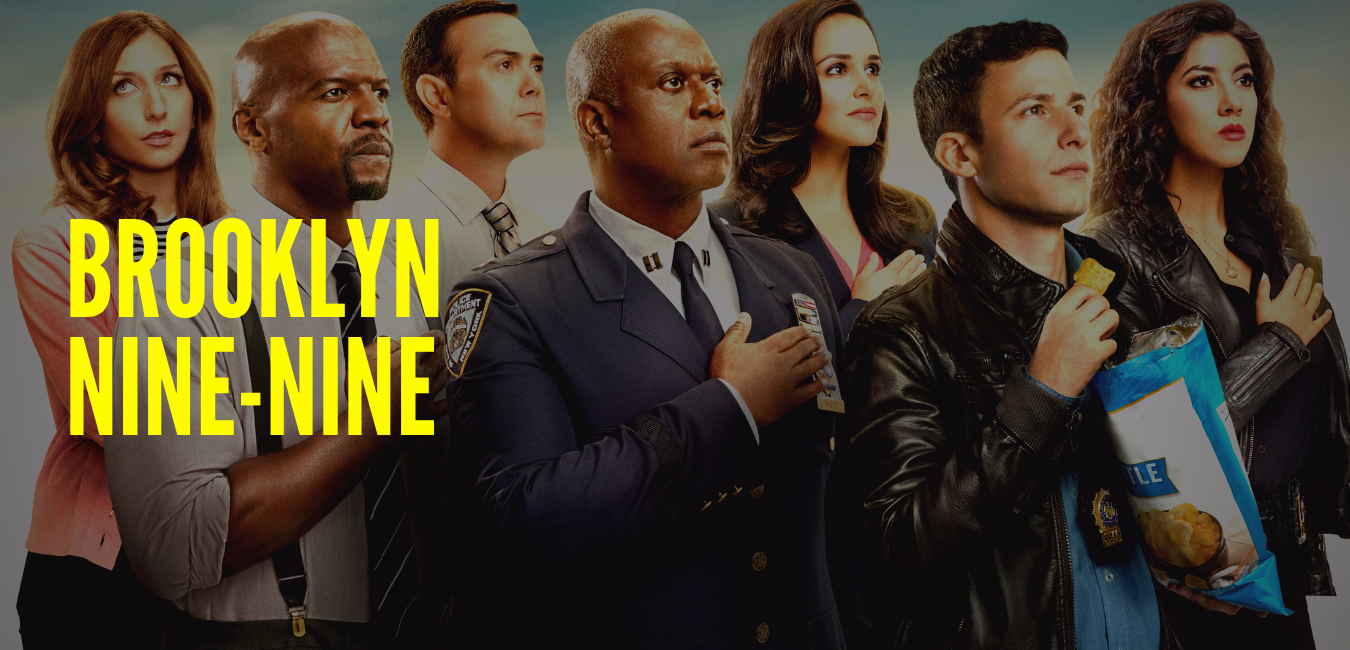
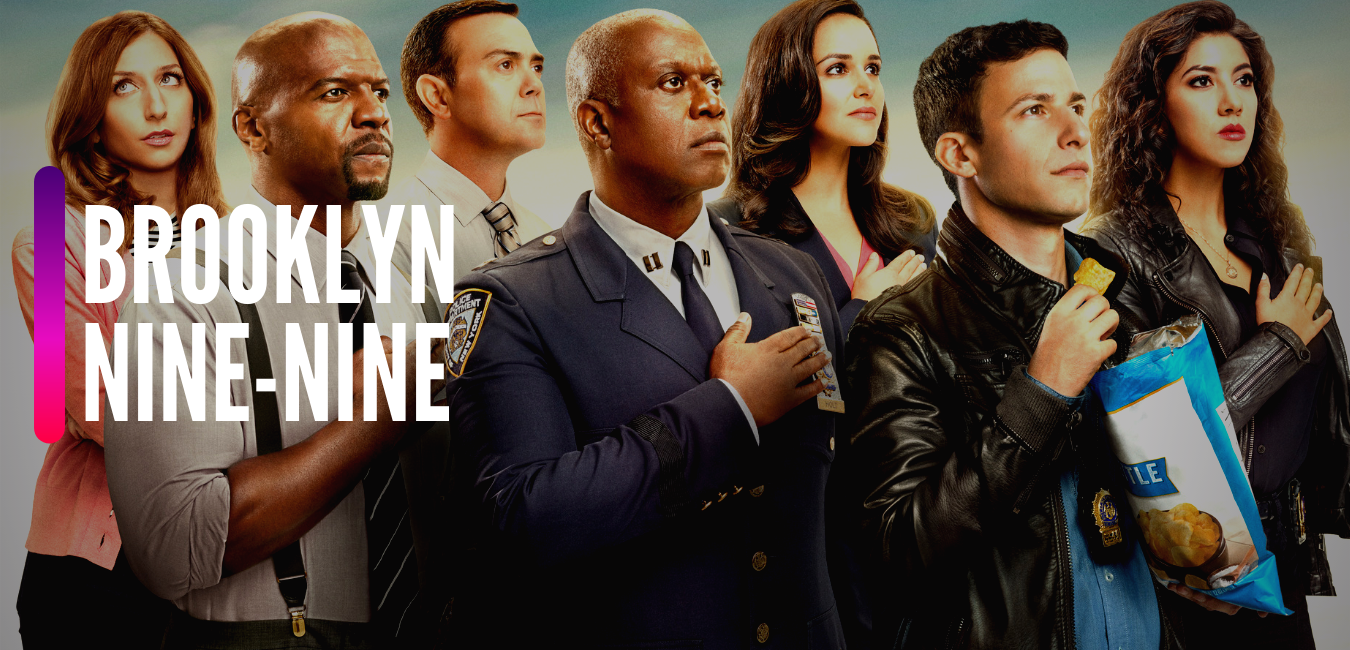
Carousel update and featured films. Featured films in progress.

diff --git a/home.html b/home.html
@@ -16,29 +16,47 @@
         <script defer src="https://stackpath.bootstrapcdn.com/bootstrap/4.5.0/js/bootstrap.min.js" integrity="sha384-OgVRvuATP1z7JjHLkuOU7Xw704+h835Lr+6QL9UvYjZE3Ipu6Tp75j7Bh/kR0JKI" crossorigin="anonymous"></script>
     </head>
     <body>
-        <!-- Start carousel-->
-        <!-- Service description and ads-->
-        <section id="carouselExampleIndicators" class="carousel slide" data-ride="carousel">
-            <div class="carousel-inner">
-              <div class="carousel-item active image-carousel">
-                <img class="d-block w-100" src="assets/image1.png" alt="First slide">
-              </div>
-              <div class="carousel-item image-carousel">
-                <img class="d-block w-100" src="assets/image2.png" alt="Second slide">
-              </div>
-              <div class="carousel-item image-carousel">
-                <img class="d-block w-100" src="assets/image3.png" alt="Third slide">
-              </div>
-            </div>
-            <a class="carousel-control-prev" href="#carouselExampleIndicators" role="button" data-slide="prev">
-              <span class="carousel-control-prev-icon" aria-hidden="true"></span>
-              <span class="sr-only">Previous</span>
-            </a>
-            <a class="carousel-control-next" href="#carouselExampleIndicators" role="button" data-slide="next">
-              <span class="carousel-control-next-icon" aria-hidden="true"></span>
-              <span class="sr-only">Next</span>
-            </a>
-        </section>
-          <!--End carousel-->
+		<!--Start main content-->
+		<main>
+			<!-- Start carousel-->
+			<!-- Service description and ads-->
+			<section id="carouselExampleIndicators" class="carousel slide" data-ride="carousel">
+				<div class="carousel-inner">
+					<div class="carousel-item active image-carousel">
+						<img class="d-block w-100" src="assets/image1.png" alt="First slide">
+					</div>
+				  	<div class="carousel-item image-carousel">
+						<img class="d-block w-100" src="assets/image2.png" alt="Second slide">
+				  	</div>
+				  	<div class="carousel-item image-carousel">
+						<img class="d-block w-100" src="assets/image3.png" alt="Third slide">
+				  	</div>
+				</div>
+				<a class="carousel-control-prev" href="#carouselExampleIndicators" role="button" data-slide="prev">
+					<span class="carousel-control-prev-icon" aria-hidden="true"></span>
+				  	<span class="sr-only">Previous</span>
+				</a>
+				<a class="carousel-control-next" href="#carouselExampleIndicators" role="button" data-slide="next">
+				  	<span class="carousel-control-next-icon" aria-hidden="true"></span>
+				  	<span class="sr-only">Next</span>
+				</a>
+			</section>
+			<!--End carousel-->
+
+			<!--Show movies and series-->
+			<section>
+				<h1 class="d-flex justify-content-start popular-movies title-popular-movie">Populares no ResiliaFlix</h1>
+				<div class="container">
+					<picture class="row container-movie-poster">
+						<img src="https://m.media-amazon.com/images/M/MV5BNDFmZjgyMTEtYTk5MC00NmY0LWJhZjktOWY2MzI5YjkzODNlXkEyXkFqcGdeQXVyMDA4NzMyOA@@._V1_SX300.jpg" class="img-thumbnail col-12 col-md-2" alt="...">
+						<img src="https://m.media-amazon.com/images/M/MV5BNDFmZjgyMTEtYTk5MC00NmY0LWJhZjktOWY2MzI5YjkzODNlXkEyXkFqcGdeQXVyMDA4NzMyOA@@._V1_SX300.jpg" class="img-thumbnail col-12 col-md-2" alt="...">
+						<img src="https://m.media-amazon.com/images/M/MV5BNDFmZjgyMTEtYTk5MC00NmY0LWJhZjktOWY2MzI5YjkzODNlXkEyXkFqcGdeQXVyMDA4NzMyOA@@._V1_SX300.jpg" class="img-thumbnail col-12 col-md-2" alt="...">
+						<img src="https://m.media-amazon.com/images/M/MV5BNDFmZjgyMTEtYTk5MC00NmY0LWJhZjktOWY2MzI5YjkzODNlXkEyXkFqcGdeQXVyMDA4NzMyOA@@._V1_SX300.jpg" class="img-thumbnail col-12 col-md-2" alt="...">
+						<img src="https://m.media-amazon.com/images/M/MV5BNDFmZjgyMTEtYTk5MC00NmY0LWJhZjktOWY2MzI5YjkzODNlXkEyXkFqcGdeQXVyMDA4NzMyOA@@._V1_SX300.jpg" class="img-thumbnail col-12 col-md-2" alt="...">
+		<!--End main content-->
+					</picture>
+				</div>
+			</section>
+		</main>
     </body>
 </html>

diff --git a/style/home.css b/style/home.css
@@ -1,5 +1,14 @@
 .image-carousel{
-    object-position: 0 100%;
+    object-position: 0 90%;
     object-fit: cover;
-    height: 650px;
+    max-height: 600px;
+}
+.title-popular-movie{
+    margin-top: 3%;
+    margin-bottom: 3%;
+    margin-left: 5%;
+}
+.container-movie-poster{
+    margin-left: 5%;
+    margin-right: 5%;
 }
